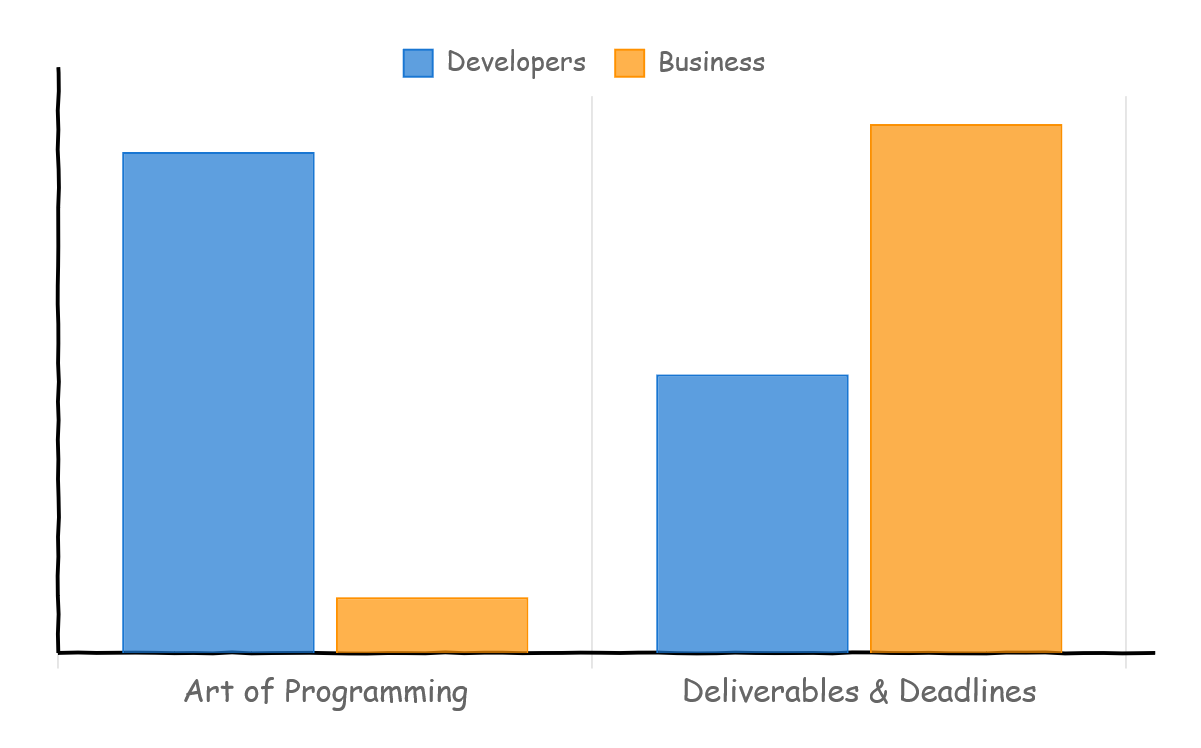
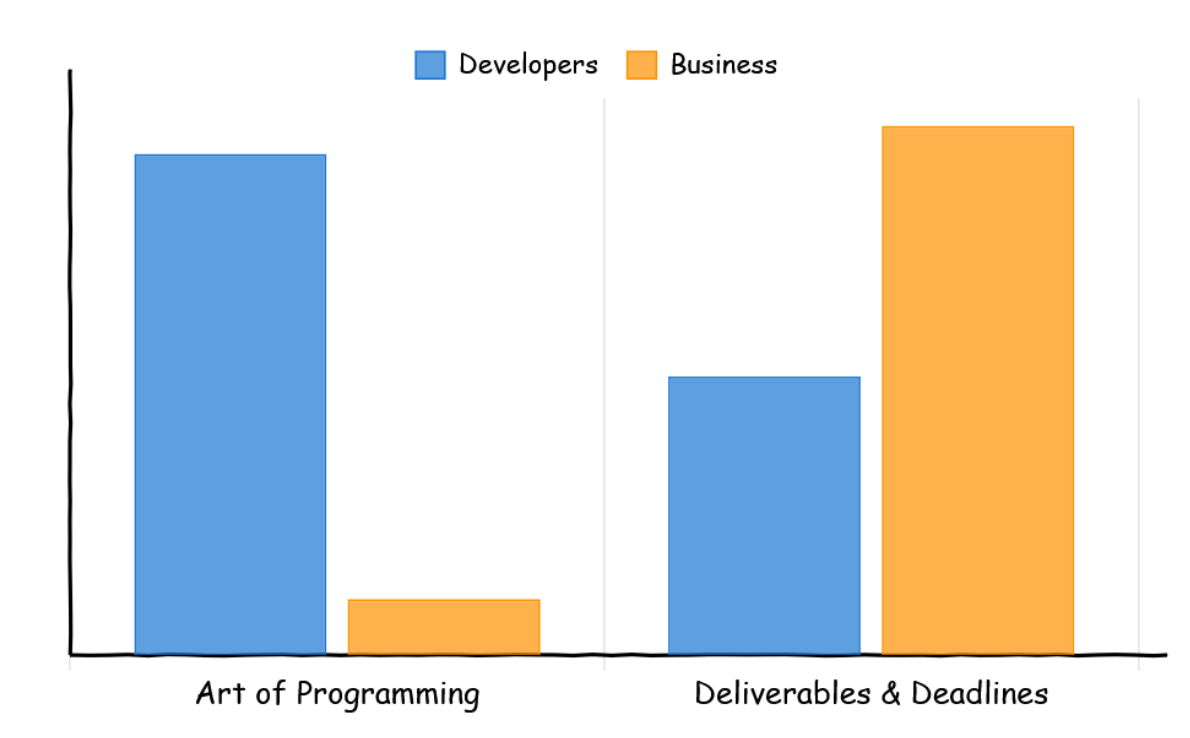
publish ai and programmers

Changed region(s): [[0.0311, 0.0935, 0.995, 0.9661], [0.3109, 0.0623, 0.6529, 0.1247]]

diff --git a/_posts/2025-05-01-ai-and-programmers.md b/_posts/2025-05-01-ai-and-programmers.md
@@ -1,0 +1,144 @@
+---
+title: "New Programmers Don't Really Have a Choice About AI"
+layout: post
+date: 2025-04-30
+categories:
+ - ai
+excerpt_separator: <!--more-->
+post_promotion_type: giga-reviewer
+---
+
+Every day I see another heartfelt post on Reddit about "resisting AI use" or "keeping the craft pure." 
+
+Those posts remind me of myself. If you met me two years ago, you'd see me tastefully craft each line and function of the code I write. 
+
+Fast forward to today, and I've let go of control and I let the AI handle a lot of my codebase. Not because I necessarily want to, but because I've realized that programmers _simply don't have a choice anymore._ 
+
+The industry has already decided, and it's not [waiting for any of us to catch up](/blog/ai-and-learning).
+
+<!--more-->
+
+## When `react` was a new thing
+
+In 2016, I had a couple of years experience as a developer and was making sites serving millions of users with _pure_ HTML, CSS, JS, and a little bit of jQuery.
+
+Around that time, I was seeing React gain popularity&mdash; and I wasn't a fan at all.
+
+SPA frameworks increased load times (remember waiting 10 seconds for a simple landing page?), were worse for SEO (Google was terrible at indexing JS-rendered content back then), and downright bad for accessibility. I was confident that the trend would die out.
+
+And I wasn't alone. There were a lot of people like me on Reddit, as evidenced by Mr. `[deleted]`'s rant:
+
+<figure>
+  <img src="{{ '/assets/framework-hate.png' | relative_url }}" alt="">
+  <figcaption>My kind of people</figcaption>
+</figure>
+
+Convinced, I doubled down on using plain old JS, no framework. I was writing _pure_ code. I was crafting "elegant" solutions. And I knew that the world would eventually see reason, and return to simpler approaches.
+
+_Want to guess how that turned out?_
+
+**Spoiler alert:** no one cared about my "pure" code. What actually happened was:
+
+* Developers who embraced React shipped more applications faster. 
+* Companies that adopted it could iterate quicker and push features that users actually noticed. 
+* Meanwhile, my "elegant" vanilla JS solutions took three times as long to build.
+
+The industry had simply moved on, while I was busy being "right".
+
+## Economies of Code
+
+Let's take some time to think about _why_ so much code exists in the first place.
+
+Code written for businesses allows executing repeatable processes that increase profits and/or save time. It is a means of delivering specific business objectives, not an "art."
+
+Put another way, when was the last time your manager celebrated your beautiful code architecture? Or, when did your CEO personally thank you for following perfect design patterns?
+
+Never, right? Because from a business perspective, **code is a liability, not an asset**.
+
+The cold, hard truth is that companies don't _want_ more code. The only thing that matters is **results**.
+
+I learned this lesson from my former engineering manager. We were celebrating after a product launch, and I was complaining about some tech debt we'd accumulated.
+
+_"You know what?"_ he said. _"I've never once heard the CEO care about our code quality. The only thing that matters is if we can deliver before deadlines or not. Nobody's getting promoted for clean code if the feature ships late."_
+
+<figure>
+  <img src="{{ '/assets/devs-vs-businesses-art-vs-deadlines.png' | relative_url }}" alt="Devs vs Businesses" style="max-width: 30em">
+  <figcaption>What devs prioritize vs what businesses prioritize</figcaption>
+</figure>
+
+It was disappointing, but also... _enlightening_?
+
+As a programmer, since I live _inside_ my codebase, I want to make it perfect exactly the way I want. I still get a dopamine hit when I refactor a messy function into something elegant.
+
+But if I think about this from the perspective of a business, my code is merely a _tool_ to earn profits.
+
+And that's why I feel that we really don't have any choice about using AI. The painful reality is that someone using AI will outpace someone who is not, not by a small margin, but by orders of magnitude. 
+
+And what employer wants to hire the slower programmer?
+
+## Changing definitions of a "Good Programmer"
+
+Remember what defined a good programmer a few years ago?
+
+Back when I first started, being "senior" meant you had encyclopedic knowledge of your stack. I paired with a guy recently who could recite the exact syntax for obscure Python functions from memory. Like a programming savant.
+
+You were expected to know your framework's internals so well that you could debug issues without even looking at logs. _"Oh, you're getting that error? That's a known issue with how React handles nested Suspense components."_
+
+And let's not forget the badge of honor that came with using APIs and libraries without needing to look at docs, because you already remember it. 
+
+With AI, that definition needs to be updated. Much of the lower levels of programming is handled by an AI, the developer's role is more of a "orchestrator."
+
+Now, a good programmer needs totally different skills:
+
+1. Translating business needs into technical specifications that AI understands
+1. Then, using [AI to get results quickly](/blog/building-with-ai)
+1. And finally, being an expert at reading and validating code. 
+
+## How to Keep Up
+
+It's a completely different mental process to be programming with AI. I've been experimenting with ways to get comfortable with it. Here's what's actually working:
+
+* Ask better questions. This seems obvious, but there's an art to it. The quality of your AI output directly corresponds to your prompt skills. I keep a list of [effective prompts for different situations](/blog/ai-prompt-engineering).
+* Build your verification instincts. AI will [confidently generate complete nonsense](/blog/dangers-vibe-coding). Getting good at identifying it quickly is a superpower.
+* Operate at the edge of your abilities. Use AI for the mundane stuff (boilerplate, standard patterns, typical integrations), then apply your creativity to the novel problems AI can't handle yet.
+* Deep dive when things break. The best learning happens at failure points. When AI-generated code breaks, that's your cue to really understand the underlying system. Add logs, use the debugger, manually go through each part of the code flow.
+
+I went through the five stages of grief about these changes. I was angry _(these tools are stealing our jobs)_, in denial _(they'll never replace real programming skill)_, tried to bargain _(maybe I'll just use it for documentation)_. 
+
+But eventually, I accepted it: programming as I knew it is dying. Something new is being born.
+
+And in some ways, it's more interesting than what came before.
+
+
+The programmers who will survive this transition are the ones who will understand and use AI as the powerful tool that it is.
+
+* They're the ones who can identify what AI is terrible at. And trust me, despite all the hype, there are still [plenty of things AI sucks at](/blog/ai-understand-senior-developer).
+* They're the ones who know when to trust and when to verify. (My rule of thumb: trust AI for anything that has clear correctness criteria and standard patterns. Be skeptical of anything security-related, performance-critical, or novel.)
+* Most importantly, they're the ones who focus their limited mental energy on truly novel problems. The parts of programming that require creativity, deep understanding of user needs, or complex system design.
+
+
+With AI, I'm spending less time googling errors and more time thinking about the actual problems I'm trying to solve. I don't need to go through pages of docs to implement third party code. My PRs are bigger, my features ship faster, and honestly? The code quality is often better because I'm less fatigued from writing boilerplate.
+
+Here's how I see productivity of programmers using AI vs those who are not:
+
+<figure>
+  <img src="{{ '/assets/time-with-and-without-ai.png' | relative_url }}" alt="With and Without AI">
+</figure>
+
+AI makes you better at boilerplate and third party code, but QA takes more time. Still, this is just the start. Over time, this graph will get better in favor of those using AI.
+
+## What Happens Next
+
+The uncomfortable truth is that AI is not optional for programmers anymore. Just like frameworks, high-level languages, and Stack Overflow before it, AI is now part of the workflow.
+
+Those who adapt will thrive. Those who resist will find themselves slowly lose out.
+
+Is that _fair_? No. 
+
+Is it _reality_? Absolutely.
+
+The developers who adjust to this new reality fastest will have the most interesting careers over the next decade. They'll be working on problems that push the boundaries of what's possible. Think about what you could be building if you weren't wasting time on tasks AI can handle. 
+
+The future belongs to the developers who see AI not as a threat to their craft, but as the key that finally lets them build what they've always imagined, but never had the time to create. 
+
+_Thanks to [John](https://www.linkedin.com/in/jmontroy90/), [Cyrene](https://cysabi.github.io/), and [Mikhail](https://www.linkedin.com/in/mikkqu/) for helping me think deeper about these ideas and for sharing feedback on my drafts_

diff --git a/_posts/2025-04-07-ai-understand-senior-developer.md b/_posts/2025-04-07-ai-understand-senior-developer.md
@@ -112,7 +112,7 @@ The implications go far beyond fixing basic errors. When AI truly understands yo
 
 There's a darker side as well. As AI gets better at understanding codebases, the value of certain types of programming knowledge decreases: the [mid-level programmer](/blog/ai-illiterate-programmers) who primarily translates requirements into code without architectural insight may find themselves increasingly squeezed.
 
-After experimenting with these techniques for several weeks, I eventually packaged them into a tool called [Giga AI](https://gigamind.dev/). I built it initially to solve my own frustrations, but other developers kept asking to try it after seeing how it changed my workflow. Developers who use Giga report less time spent correcting AI-generated code, are able to ship faster, and feeling less frustrated.
+After experimenting with these techniques for several weeks, I eventually packaged them into a tool called [Giga AI](https://gigamind.dev/context). I built it initially to solve my own frustrations, but other developers kept asking to try it after seeing how it changed my workflow. Developers who use Giga report less time spent correcting AI-generated code, are able to ship faster, and feeling less frustrated.
 
 ## Implementation
 
